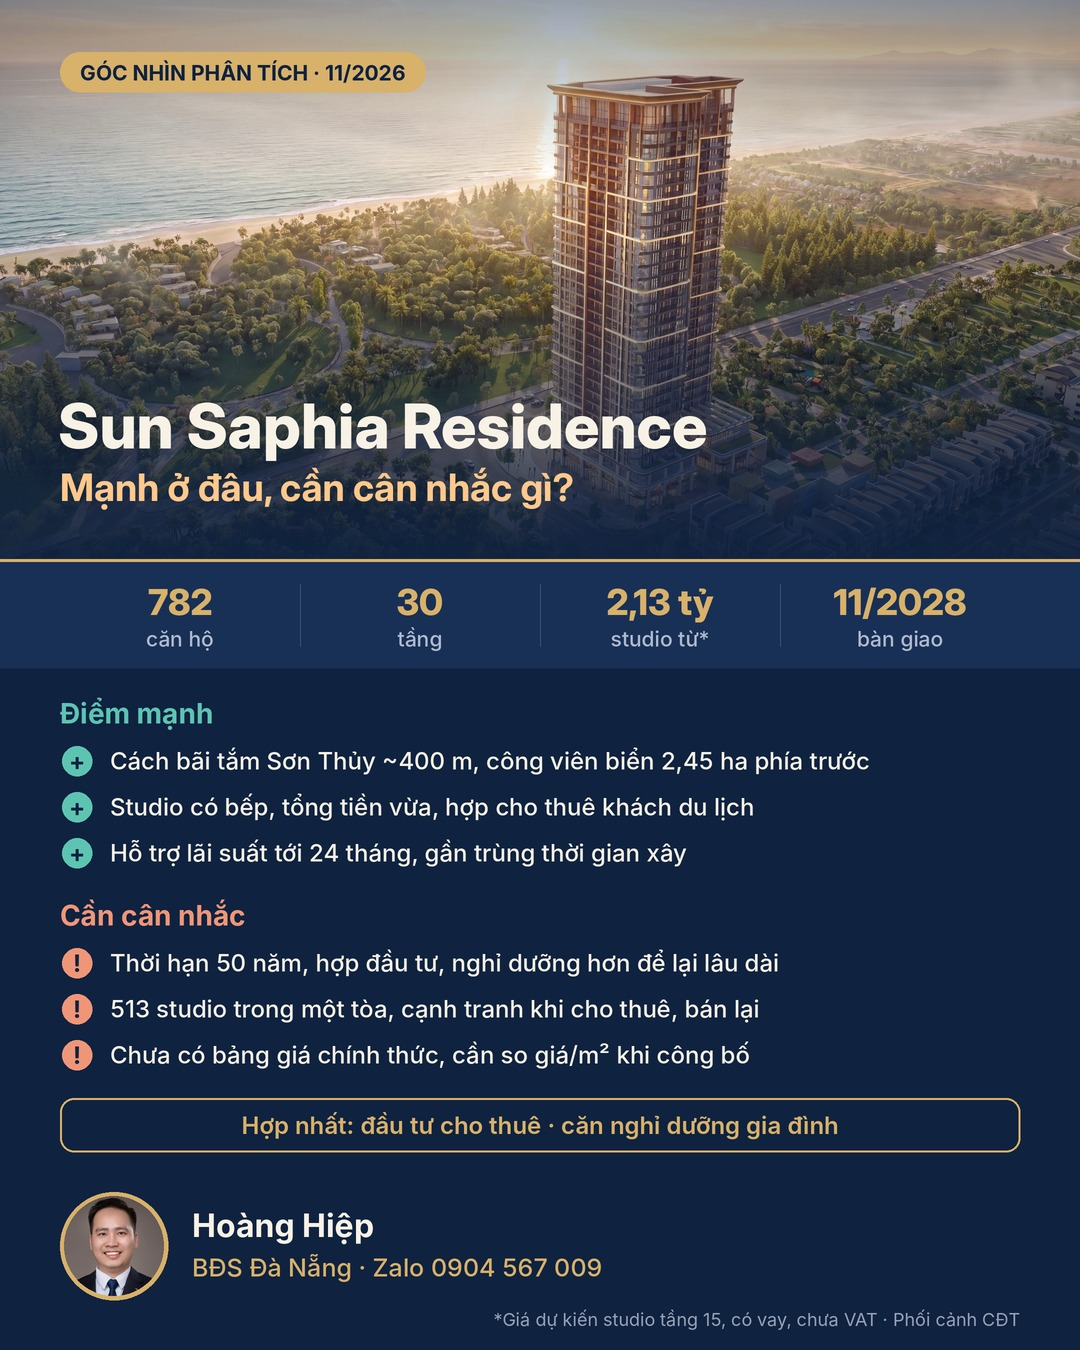
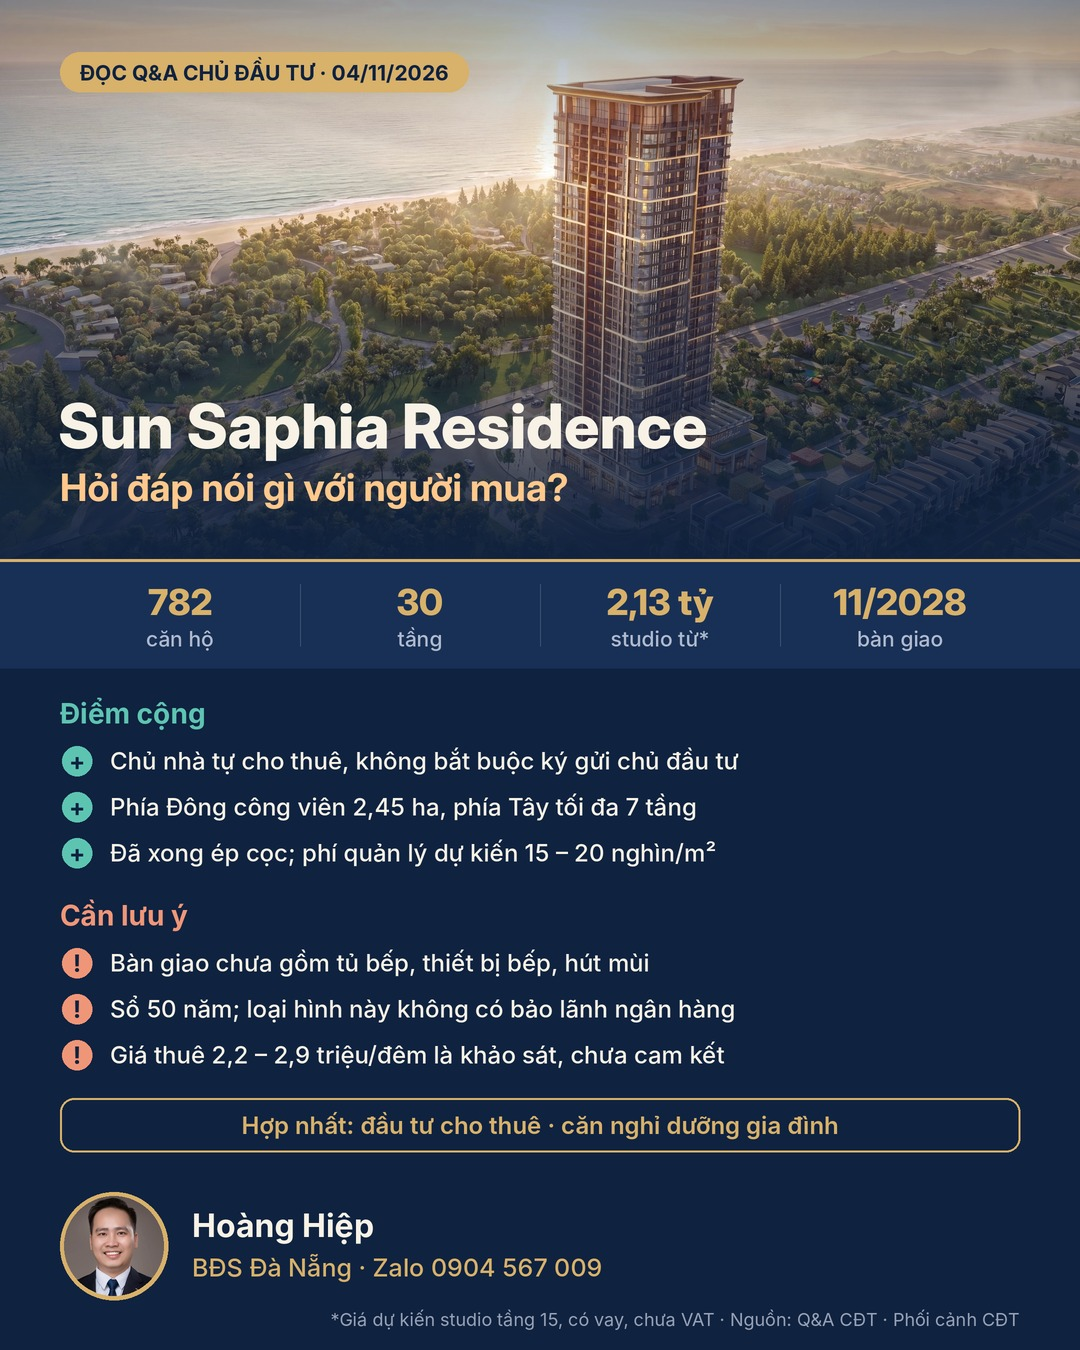
FB Sun: bài phân tích Sun Saphia dựa trên Q&A chủ đầu tư
Claude-Session: https://claude.ai/code/session_01Wm6ymiK43bcSEb2Ytz1zHX

diff --git a/wordpress/bai-viet/fb-sun-saphia-phan-tich-11-2026.py b/wordpress/bai-viet/fb-sun-saphia-phan-tich-11-2026.py
@@ -1,4 +1,4 @@
-"""Ảnh FB dọc 1080×1350 – phân tích Sun Saphia Residence: điểm mạnh, điểm cần cân nhắc (số liệu bài web, 06/11/2026).
+"""Ảnh FB dọc 1080×1350 – phân tích Sun Saphia Residence dựa trên bộ hỏi đáp của chủ đầu tư (04/11/2026).
 Nửa trên: phối cảnh CĐT img/sun-saphia/sun-saphia-cdt-hoang-hon-bien-tren-cao.jpg.
 Chạy: python3 fb-sun-saphia-phan-tich-11-2026.py <anh-dai-dien.jpg> <phoi-canh.jpg> <out.jpg>"""
 import sys
@@ -12,12 +12,12 @@ W, H, S = 1080, 1350, 2
 F = lambda n, s: ImageFont.truetype(I + n, s * S)
 P = lambda *v: tuple(int(x * S) for x in v)
 STATS = [('782', 'căn hộ'), ('30', 'tầng'), ('2,13 tỷ', 'studio từ*'), ('11/2028', 'bàn giao')]
-PLUS = ['Cách bãi tắm Sơn Thủy ~400 m, công viên biển 2,45 ha phía trước',
-        'Studio có bếp, tổng tiền vừa, hợp cho thuê khách du lịch',
-        'Hỗ trợ lãi suất tới 24 tháng, gần trùng thời gian xây']
-MINUS = ['Thời hạn 50 năm, hợp đầu tư, nghỉ dưỡng hơn để lại lâu dài',
-         '513 studio trong một tòa, cạnh tranh khi cho thuê, bán lại',
-         'Chưa có bảng giá chính thức, cần so giá/m² khi công bố']
+PLUS = ['Chủ nhà tự cho thuê, không bắt buộc ký gửi chủ đầu tư',
+        'Phía Đông công viên 2,45 ha, phía Tây tối đa 7 tầng',
+        'Đã xong ép cọc; phí quản lý dự kiến 15 – 20 nghìn/m²']
+MINUS = ['Bàn giao chưa gồm tủ bếp, thiết bị bếp, hút mùi',
+         'Sổ 50 năm; loại hình này không có bảo lãnh ngân hàng',
+         'Giá thuê 2,2 – 2,9 triệu/đêm là khảo sát, chưa cam kết']
 
 PH = 560
 im = Image.new('RGB', (W * S, H * S), NAVY)
@@ -35,13 +35,13 @@ for y in range(PH * S):
 im.paste(ov, (0, 0), ov)
 d = ImageDraw.Draw(im, 'RGBA')
 
-tag = 'GÓC NHÌN PHÂN TÍCH · 11/2026'
+tag = 'ĐỌC Q&A CHỦ ĐẦU TƯ · 04/11/2026'
 ft = F('Inter-Bold.otf', 21)
 tw = d.textlength(tag, font=ft) / S
 d.rounded_rectangle(P(60, 52, 60 + tw + 40, 92), radius=20 * S, fill=GOLD)
 d.text(P(80, 60), tag, font=ft, fill=NAVY)
 d.text(P(58, 388), 'Sun Saphia Residence', font=F('InterDisplay-ExtraBold.otf', 62), fill=CREAM)
-d.text(P(60, 464), 'Mạnh ở đâu, cần cân nhắc gì?', font=F('InterDisplay-Bold.otf', 38), fill=(255, 200, 140))
+d.text(P(60, 464), 'Hỏi đáp nói gì với người mua?', font=F('InterDisplay-Bold.otf', 38), fill=(255, 200, 140))
 
 # Hàng số liệu
 y = PH
@@ -67,8 +67,8 @@ def block(y, title, col, sign, items):
     return y
 
 
-y = block(y + 136, 'Điểm mạnh', TEAL, '+', PLUS)
-y = block(y + 18, 'Cần cân nhắc', CORAL, '!', MINUS)
+y = block(y + 136, 'Điểm cộng', TEAL, '+', PLUS)
+y = block(y + 18, 'Cần lưu ý', CORAL, '!', MINUS)
 d.rounded_rectangle(P(60, y + 16, W - 60, y + 70), radius=14 * S, outline=GOLD, width=2 * S)
 d.text(P(W / 2, y + 43), 'Hợp nhất: đầu tư cho thuê · căn nghỉ dưỡng gia đình', font=F('Inter-SemiBold.otf', 24), fill=GOLD, anchor='mm')
 
@@ -81,5 +81,5 @@ im.paste(a, P(64, ay), mk)
 d = ImageDraw.Draw(im, 'RGBA')
 d.text(P(192, ay + 10), 'Hoàng Hiệp', font=F('Inter-Bold.otf', 32), fill=CREAM)
 d.text(P(192, ay + 56), 'BĐS Đà Nẵng · Zalo 0904 567 009', font=F('Inter-Medium.otf', 25), fill=GOLD)
-d.text(P(W - 60, 1326), '*Giá dự kiến studio tầng 15, có vay, chưa VAT · Phối cảnh CĐT', font=F('Inter-Regular.otf', 18), fill=(150, 160, 180), anchor='rs')
+d.text(P(W - 60, 1326), '*Giá dự kiến studio tầng 15, có vay, chưa VAT · Nguồn: Q&A CĐT · Phối cảnh CĐT', font=F('Inter-Regular.otf', 18), fill=(150, 160, 180), anchor='rs')
 im.resize((W, H), Image.LANCZOS).save(OUT, quality=92, optimize=True, progressive=True)

diff --git a/marketing/fb/nhat-ky-dang-fb.md b/marketing/fb/nhat-ky-dang-fb.md
@@ -21,4 +21,4 @@
 | 07/11/2026 | Hoàng Hiệp | 11:30 | (bản tin) Tái định cư Duy Xuyên – đường sắt tốc độ cao 392 tỷ | /tai-dinh-cu-duy-xuyen-duong-sat-toc-do-cao-392-ty/ |
 | 07/11/2026 | Hoàng Hiệp | 15:30 | 4 điều cần biết khi cho thuê căn hộ theo ngày (1 ảnh dọc: biển Mỹ Khê + 4 điều) | /cho-thue-ngan-ngay-can-ho-da-nang-phap-ly-thue/ |
 | 07/11/2026 | Sun | 20:00 | Spana Tower – tiến độ thực tế 11/2026, pháp lý, tiện ích (album 4 ảnh) | /du-an/spana-tower/ |
-| 07/11/2026 | Sun | 16:30 | Phân tích Sun Saphia: điểm mạnh, cần cân nhắc, hợp với ai (1 ảnh dọc) | /danh-gia-sun-saphia-residence-chi-tiet/ |
+| 07/11/2026 | Sun | 16:30 | Phân tích Sun Saphia dựa trên Q&A chủ đầu tư 04/11: điểm cộng, cần lưu ý (1 ảnh dọc) | /sun-saphia-residence-hoi-dap-ban-giao-phi-quan-ly-cho-thue/ |
